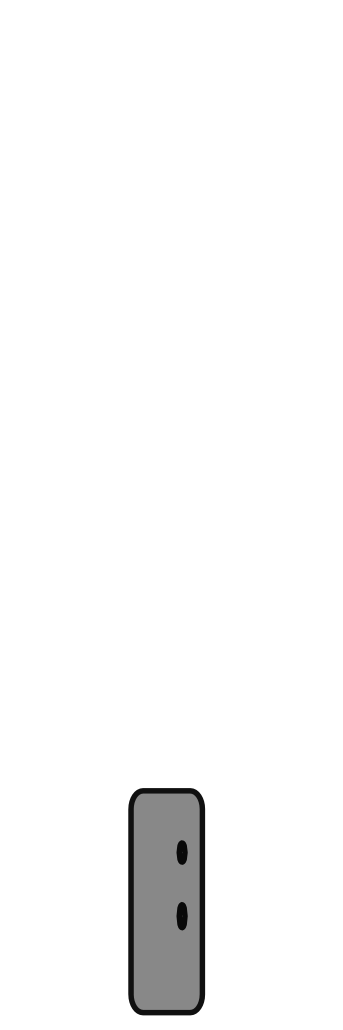
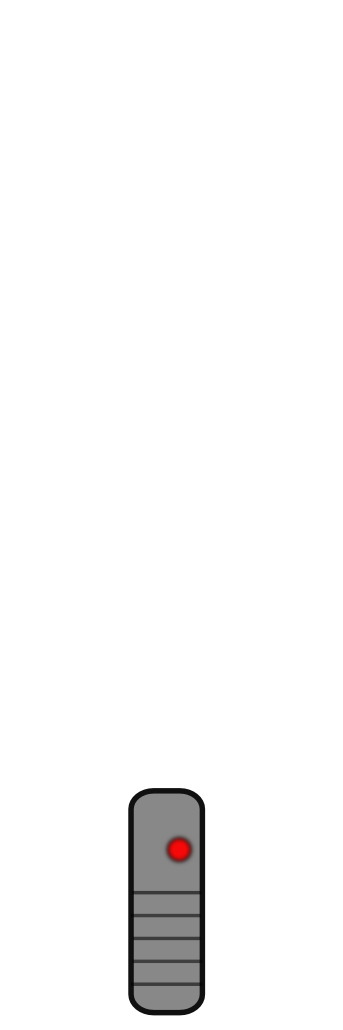
added new lightsabercolor png's

Changed region(s): [[0.379, 0.8078, 0.5831, 0.9942], [0.379, 0.7456, 0.4373, 0.7767], [0.5539, 0.7456, 0.5831, 0.7767]]

diff --git a/qml/lightsaber/MainPage.qml b/qml/lightsaber/MainPage.qml
@@ -13,7 +13,7 @@ Page {
 
     orientationLock: PageOrientation.LockPortrait
 
-    property string title : "Lightsaber"
+    property string lightsabercolor : "red"
 
     Column {
         spacing: 2
@@ -31,7 +31,7 @@ Page {
             Image {
                 id: lightsaberImage
                 anchors.fill: parent
-                source: "lightsabber.png"
+                source: "lightsabber_" + lightsabercolor + ".png"
                 visible: startButton.checked
             }
             Image {

diff --git a/lightsabersettings.h b/lightsabersettings.h
@@ -7,7 +7,7 @@
 class LightsaberSettings : public QObject
 {
     Q_OBJECT
-    Q_PROPERTY(int lightsaberSensitivityHit READ getsensitivityHit WRITE setsensitivityHit)
+    Q_PROPERTY(int lightsaberSensitivityHit READ getsensitivityHit WRITE setsensitivityHit NOTIFY sensitivityHitChanged)
     Q_PROPERTY(bool keepDisplayOn READ isDisplayStateOn WRITE setDisplayStateOn NOTIFY keepDisplayOnChanged())
     Q_PROPERTY(bool showStatusBar READ isShowStatusBarOn WRITE setShowStatusBar NOTIFY showStatusBarChanged())
 
@@ -15,9 +15,9 @@ class LightsaberSettings : public QObject
 public:
     explicit LightsaberSettings(QObject *parent = 0);
     
-    int getsensitivityHit();
+    int getsensitivityHit() const;
     int sensitivityHit() const;
-    void setsensitivityHit(const int &sensitivity);
+    void setsensitivityHit(int sensitivity);
 
     bool isDisplayStateOn();
     bool keepDisplayOn() const;
@@ -29,7 +29,7 @@ public:
 
 
 signals:
-    void sensitivityHitChanged(const int &sensitivityHit);
+    void sensitivityHitChanged(int sensitivityHit);
     void keepDisplayOnChanged();
     void showStatusBarChanged();
 

diff --git a/lightsabersettings.cpp b/lightsabersettings.cpp
@@ -5,14 +5,14 @@ LightsaberSettings::LightsaberSettings(QObject *parent) :
 {
     m_settings = new QSettings("lightsaber");
 }
-void LightsaberSettings::setsensitivityHit(const int &sensitivity)
+void LightsaberSettings::setsensitivityHit(int sensitivity)
 {
     m_settings->setValue("hit_sensitivity",sensitivity);
     qDebug() << "hit-sensitivity set to" << sensitivity;
     emit sensitivityHitChanged(sensitivity);
 }
 
-int LightsaberSettings::getsensitivityHit()
+int LightsaberSettings::getsensitivityHit() const
 {
     return m_settings->value("hit_sensitivity",10).toInt();
 }
@@ -36,7 +36,7 @@ bool LightsaberSettings::isDisplayStateOn(){
 void LightsaberSettings::setShowStatusBar(const bool &showStatusBar)
 {
     m_settings->setValue("ShowStatusBar", showStatusBar);
-    qDebug() << "Statusbar Settings Value changed to:" << showStatusBar;
+    qDebug() << "Show statusbar settings value changed to:" << showStatusBar;
     emit showStatusBarChanged();
 
 }

diff --git a/core.cpp b/core.cpp
@@ -11,6 +11,7 @@ Core::Core(QObject *parent) :
     m_settings = new LightsaberSettings(this);
 
     sensitivityHit = m_settings->getsensitivityHit();
+    sensitivitySwing = 3;
 
     //Sound connectons
     connect(this,SIGNAL(lightsaberMoved(QString)),m_soundeffects,SLOT(playSaberEffect(QString)));
@@ -66,7 +67,7 @@ void Core::on_lightsaberPowerChanged()
 
 }
 
-void Core::lightsaberSensitivityHitChanged(const int &sensitivity)
+void Core::lightsaberSensitivityHitChanged(int sensitivity)
 {
     sensitivityHit = sensitivity;
     qDebug() << "test";

diff --git a/core.h b/core.h
@@ -36,7 +36,7 @@ signals:
 private slots:
     void detectLightsaberMove(const qreal &x, const qreal &y, const qreal &z);
     void on_lightsaberPowerChanged();
-    void lightsaberSensitivityHitChanged(const int &sensitivity);
+    void lightsaberSensitivityHitChanged(int sensitivity);
 
 };
 
